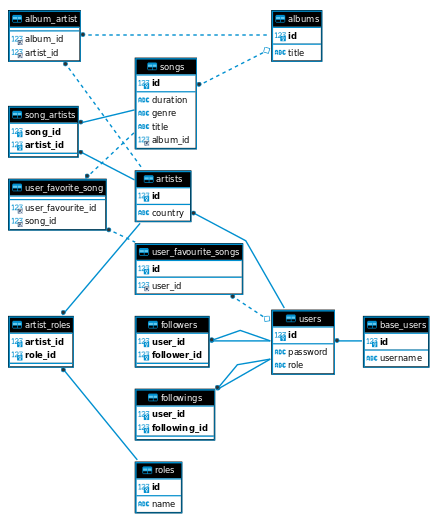
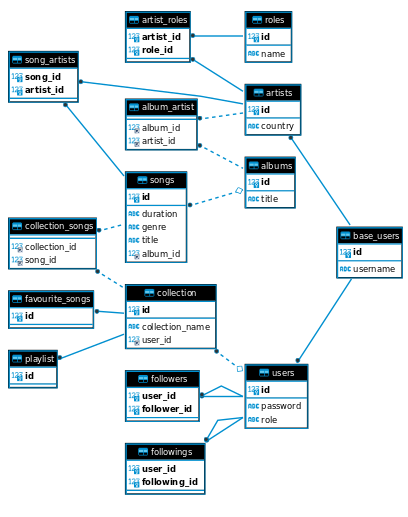
added collection super class entity

diff --git a/backend/api/src/main/java/com/music/api/entity/Collection.java b/backend/api/src/main/java/com/music/api/entity/Collection.java
@@ -8,30 +8,31 @@ import jakarta.persistence.Entity;
 import jakarta.persistence.GeneratedValue;
 import jakarta.persistence.GenerationType;
 import jakarta.persistence.Id;
+import jakarta.persistence.Inheritance;
+import jakarta.persistence.InheritanceType;
 import jakarta.persistence.JoinColumn;
 import jakarta.persistence.JoinTable;
 import jakarta.persistence.ManyToMany;
 import jakarta.persistence.ManyToOne;
-import jakarta.persistence.Table;
-import lombok.AllArgsConstructor;
 import lombok.Data;
-import lombok.NoArgsConstructor;
 
 @Entity
-@Table(name = "userFavouriteSongs")
-@NoArgsConstructor
-@AllArgsConstructor
+@Inheritance(strategy = InheritanceType.JOINED)
 @Data
-public class UserFavouriteSong {
+public abstract class Collection {
 
     @Id
     @GeneratedValue(strategy = GenerationType.IDENTITY)
     private Long id;
 
+    private String collectionName;
+
     @ManyToOne
     private User user;
 
     @ManyToMany(cascade = { CascadeType.MERGE, CascadeType.DETACH })
-    @JoinTable(name = "user_favorite_song", joinColumns = @JoinColumn(name = "user_favourite_id"), inverseJoinColumns = @JoinColumn(name = "song_id"))
-    private List<Song> songs = new ArrayList<>();
+    @JoinTable(name = "collection_songs", 
+            joinColumns = @JoinColumn(name = "collection_id"), 
+            inverseJoinColumns = @JoinColumn(name = "song_id")) 
+    private List<Song> songs = new ArrayList<>(); 
 }

diff --git a/backend/api/src/main/java/com/music/api/config/SecurityConfig.java b/backend/api/src/main/java/com/music/api/config/SecurityConfig.java
@@ -63,7 +63,7 @@ public class SecurityConfig {
         http
                 .csrf(csrf -> csrf.disable())
                 .cors(cors -> cors.configurationSource(corsConfig))
-                .authorizeHttpRequests(requests -> requests.requestMatchers("*").permitAll())
+                .authorizeHttpRequests(requests -> requests.requestMatchers("/api/auth/**").permitAll().anyRequest().authenticated())
                 .oauth2ResourceServer((oauth2) -> oauth2.jwt((jwt) -> jwt.decoder(jwtDecoder())))
                 .sessionManagement((session) -> session.sessionCreationPolicy(SessionCreationPolicy.STATELESS))
                 .exceptionHandling(

diff --git a/backend/api/src/main/java/com/music/api/controller/MusicLibraryController.java b/backend/api/src/main/java/com/music/api/controller/MusicLibraryController.java
@@ -1,5 +1,6 @@
 package com.music.api.controller;
 
+import org.springframework.security.access.prepost.PreAuthorize;
 import org.springframework.web.bind.annotation.GetMapping;
 import org.springframework.web.bind.annotation.RequestMapping;
 import org.springframework.web.bind.annotation.RestController;
@@ -9,6 +10,7 @@ import org.springframework.web.bind.annotation.RestController;
 public class MusicLibraryController {
 
     @GetMapping
+    @PreAuthorize("hasAuthority('SCOPE_ROLE_ADMIN')")
     public String getMusic() {
         return "Music Library";
     }

diff --git a/backend/api/src/main/java/com/music/api/entity/Artist.java b/backend/api/src/main/java/com/music/api/entity/Artist.java
@@ -19,7 +19,7 @@ import lombok.NoArgsConstructor;
 @NoArgsConstructor
 @AllArgsConstructor
 @EqualsAndHashCode(callSuper = true)
-public class Artist extends User {
+public class Artist extends BaseUser {
     private String country;
 
     @ManyToMany

diff --git a/backend/api/src/main/java/com/music/api/entity/FavouriteSongs.java b/backend/api/src/main/java/com/music/api/entity/FavouriteSongs.java
@@ -1,0 +1,13 @@
+package com.music.api.entity;
+
+import jakarta.persistence.Entity;
+
+import lombok.Data;
+import lombok.EqualsAndHashCode;
+
+@Entity
+@Data
+@EqualsAndHashCode(callSuper = true)
+public class FavouriteSongs extends Collection {
+
+}

diff --git a/backend/api/src/main/java/com/music/api/entity/Playlist.java b/backend/api/src/main/java/com/music/api/entity/Playlist.java
@@ -1,0 +1,12 @@
+package com.music.api.entity;
+
+import jakarta.persistence.Entity;
+import lombok.Data;
+import lombok.EqualsAndHashCode;
+
+@Entity
+@Data
+@EqualsAndHashCode(callSuper = true)
+public class Playlist extends Collection {
+    
+}
